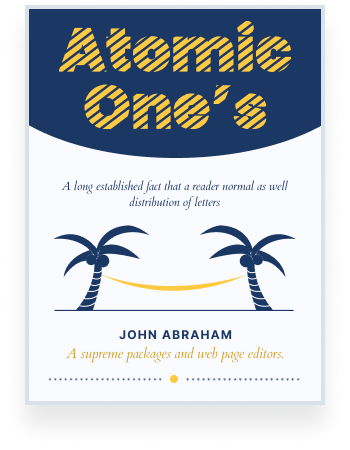
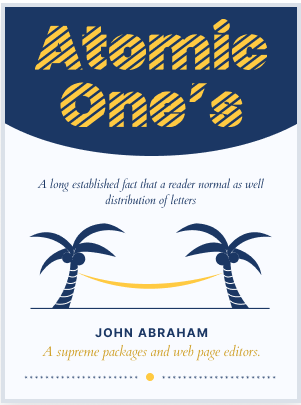
add authbook responsive

diff --git a/src/helper/Data/AuthBook.ts b/src/helper/Data/AuthBook.ts
@@ -12,7 +12,25 @@ interface Ipoints {
 
 export default function AuthBook() {
   const authBooks: IAuthBook[] = [
-    { img: "/image/book-1.png", text: "", title: "", point: [{ title: "", text: "" }] },
-    { img: "", text: "", title: "", point: [{ title: "", text: "" }] },
+    {
+      img: "/image/book-1.png",
+      text: "Many variations of passages of Lorem Ipsum willing araise  alteration in some form.",
+      title: "Atomic One’s",
+      point: [
+        { title: "Pages:", text: "586pages" },
+        { title: "Length:", text: "10 Hours" },
+      ],
+    },
+    {
+      img: "/image/book-2.png",
+      text: "Many variations of passages of Lorem Ipsum willing araise  alteration in some form.",
+      title: "The Dark Light",
+      point: [
+        { title: "Pages:", text: "586pages" },
+        { title: "Length:", text: "10 Hours" },
+      ],
+    },
   ];
+
+  return { authBooks };
 }

diff --git a/src/components/AuthorBook.tsx b/src/components/AuthorBook.tsx
@@ -1,6 +1,8 @@
 import AuthCard from "./author-book/AuthCard";
+import AuthBook from "../helper/Data/AuthBook";
 
 const AuthorBook = (): JSX.Element => {
+  const { authBooks } = AuthBook();
   return (
     <section id="auth-book">
       <div className="section-header">
@@ -8,10 +10,12 @@ const AuthorBook = (): JSX.Element => {
         <div className="line"></div>
       </div>
       <div className="section-content">
-        <div className="row">
-          <div className="col-6">
-            <AuthCard />
-          </div>
+        <div className="row gy-5 gy-lg-2 gx-5">
+          {authBooks.map((item, index) => (
+            <div className="col-lg-6" key={index}>
+              <AuthCard {...item} />
+            </div>
+          ))}
         </div>
       </div>
     </section>

diff --git a/src/components/author-book/AuthCard.tsx b/src/components/author-book/AuthCard.tsx
@@ -18,13 +18,13 @@ const AuthCard: React.FC<IauthProps> = ({
 }): JSX.Element => {
   return (
     <div className="auth-card">
-      <div className="row">
-        <div className="col-5">
+      <div className="row gy-3 gy-md-2">
+        <div className="col-md-6">
           <div className="img">
             <img src={img} alt="" />
           </div>
         </div>
-        <div className="col-7">
+        <div className="col-md-6">
           <div className="content">
             <div className="header">
               <h4>{title}</h4>

diff --git a/src/styles/Home/auth-book/auth-books.scss b/src/styles/Home/auth-book/auth-books.scss
@@ -1,10 +1,16 @@
 #auth-book{
     width: 100%;
+    overflow: hidden;
     position: relative;
     top: 6.7rem;
     padding-top: 4rem;
-    padding-bottom: 3rem;
+    padding-bottom: 5rem;
     @include container;
+
+     @include screen(small){
+        top: 0;
+        padding-top: 3.5rem;
+     }
 
      .section-header{
         text-align: center;
@@ -24,6 +30,6 @@
      }
 
      .section-content{
-        margin-top: 4rem;
+        margin-top: 3rem;
      }
 }

diff --git a/src/styles/Home/auth-book/auth-card.scss b/src/styles/Home/auth-book/auth-card.scss
@@ -1,6 +1,6 @@
 .auth-card {
     width: 100%;
-    height: max-content;
+    height: 100%;
 
     .img {
         width: 100%;
